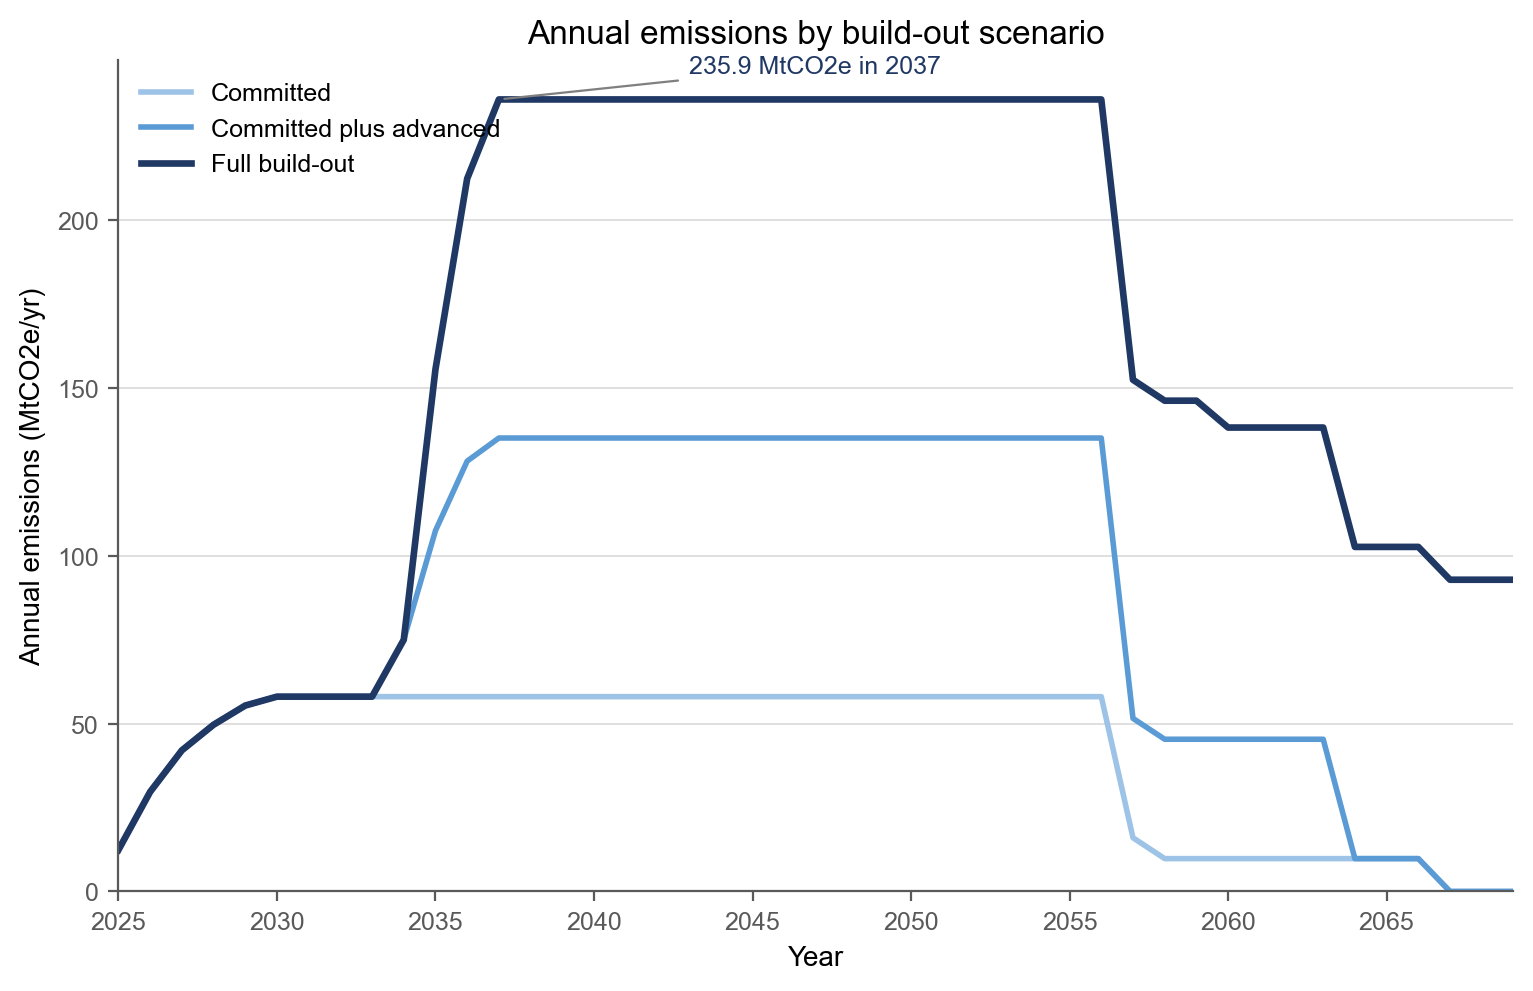
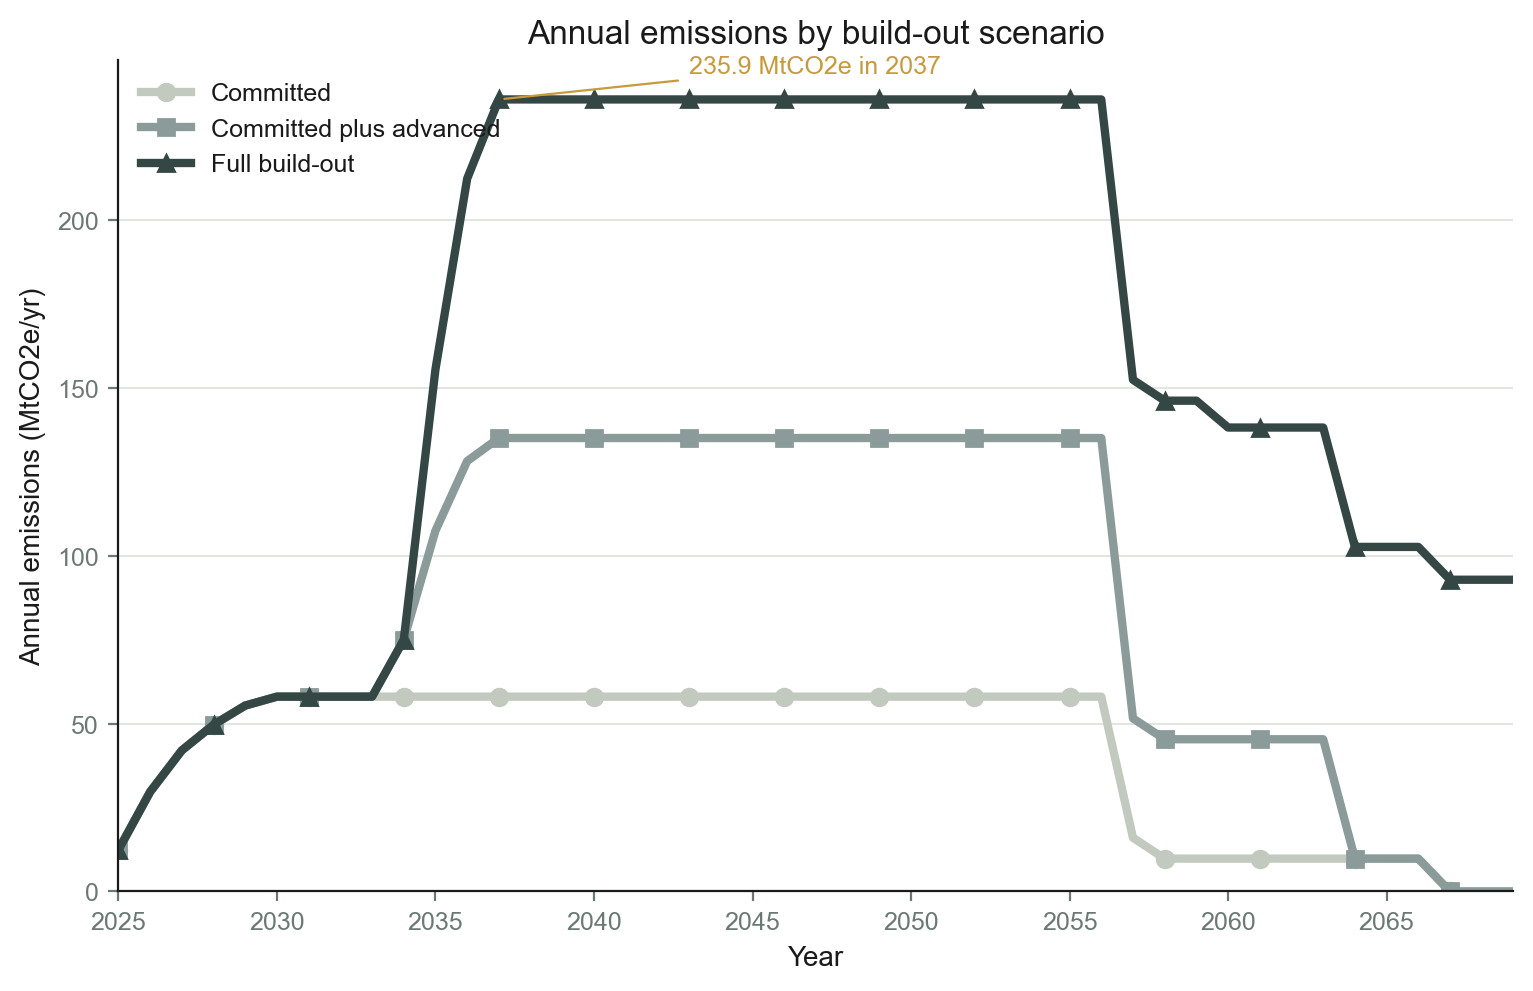
Recolour figures to the deck sage and forest palette.

diff --git a/src/figures_report.py b/src/figures_report.py
@@ -22,32 +22,42 @@ from src.trajectories import (
 
 DPI = 200
 
-# Presentation-template family (Office theme accents and shades).
+# Deck brand palette (sage / forest, gold for emphasis only).
 # Same colour always means the same thing across figures.
+INK = "#1A1A1A"
+MUTED = "#6B7975"
+GRID = "#DDE2DC"
+FOREST = "#344745"
+SAGE = "#8A9B9A"
+FOG = "#C2C9BF"
+MIST = "#DDE2DC"
+LEAF = "#A6B0A1"
+GOLD = "#C89A3C"
+
 C = {
-    "black": "#000000",
-    "navy": "#203864",
-    "blue": "#4472C4",
-    "sky": "#5B9BD5",
-    "pale": "#9DC3E6",
-    "orange": "#ED7D31",
-    "gold": "#FFC000",
-    "green": "#70AD47",
-    "darkgreen": "#548235",
-    "red": "#C00000",
-    "brown": "#833C0C",
-    "grey": "#7F7F7F",
-    "grid": "#D9D9D9",
-    "text": "#595959",
-    "vermillion": "#C00000",
-    "purple": "#7030A0",
-    "yellow": "#FFC000",
+    "black": INK,
+    "navy": FOREST,
+    "blue": FOREST,
+    "sky": SAGE,
+    "pale": FOG,
+    "orange": SAGE,
+    "gold": GOLD,
+    "green": MUTED,
+    "darkgreen": FOREST,
+    "red": MUTED,
+    "brown": SAGE,
+    "grey": MUTED,
+    "grid": GRID,
+    "text": MUTED,
+    "vermillion": SAGE,
+    "purple": LEAF,
+    "yellow": LEAF,
 }
 
 SCENARIO_COLOR = {
-    "committed": C["pale"],
-    "committed_plus_advanced": C["sky"],
-    "full": C["navy"],
+    "committed": FOG,
+    "committed_plus_advanced": SAGE,
+    "full": FOREST,
 }
 SCENARIO_LABEL = {
     "committed": "Committed",
@@ -63,12 +73,12 @@ STAGE_LABEL = {
     "combustion": "Combustion",
 }
 STAGE_COLOR = {
-    "upstream_production": C["green"],
-    "pipeline_transport": C["darkgreen"],
-    "liquefaction": C["orange"],
-    "shipping": C["gold"],
-    "regasification": C["grey"],
-    "combustion": C["red"],
+    "upstream_production": MUTED,
+    "pipeline_transport": FOG,
+    "liquefaction": SAGE,
+    "shipping": LEAF,
+    "regasification": MIST,
+    "combustion": FOREST,
 }
 TERRITORY_LABEL = {
     "CAN": "Canada",
@@ -76,9 +86,9 @@ TERRITORY_LABEL = {
     "FOR": "Importing countries",
 }
 TERRITORY_COLOR = {
-    "CAN": C["blue"],
-    "BUNK": C["grey"],
-    "FOR": C["brown"],
+    "CAN": FOREST,
+    "BUNK": GOLD,
+    "FOR": SAGE,
 }
 LOCKED_STAGE_SHARE_PCT = {
     "combustion": 78.0,
@@ -108,12 +118,15 @@ def _setup_style() -> None:
         "xtick.labelsize": 9,
         "ytick.labelsize": 9,
         "legend.fontsize": 9,
+        "text.color": INK,
+        "axes.labelcolor": INK,
+        "axes.titlecolor": INK,
         "axes.spines.top": False,
         "axes.spines.right": False,
-        "axes.edgecolor": C["text"],
-        "xtick.color": C["text"],
-        "ytick.color": C["text"],
-        "grid.color": C["grid"],
+        "axes.edgecolor": INK,
+        "xtick.color": MUTED,
+        "ytick.color": MUTED,
+        "grid.color": GRID,
         "grid.linewidth": 0.6,
         "figure.facecolor": "white",
         "axes.facecolor": "white",
@@ -122,8 +135,13 @@ def _setup_style() -> None:
 
 
 def _ygrid(ax) -> None:
-    ax.yaxis.grid(True, color=C["grid"], linewidth=0.6)
+    ax.yaxis.grid(True, color=GRID, linewidth=0.6)
     ax.set_axisbelow(True)
+
+
+def _label_on(fill: str) -> str:
+    """White on forest bars; ink on pale fills."""
+    return "#FFFFFF" if fill.upper() == FOREST.upper() else INK
 
 
 def tint_hex(hex_color: str, amount: float = 0.45) -> str:
@@ -208,7 +226,7 @@ def figure_1_stage_breakdown(
             f"{r.lifetime_mtco2e:,.0f} MtCO2e",
             va="center",
             fontsize=9,
-            color=C["black"],
+            color=INK,
         )
     ax.set_xlim(0, max(plot["share_pct"].max() * 1.28, 100))
     out = fig_dir / "fig01_stage_breakdown.png"
@@ -274,7 +292,7 @@ def figure_2_territorial_split(
                 f"{r.share_pct:.1f}%\n{r.lifetime_mtco2e:,.0f} MtCO2e",
                 ha="center",
                 va="center",
-                color="white",
+                color=_label_on(TERRITORY_COLOR[r.code]),
                 fontsize=9,
                 fontweight="bold",
             )
@@ -342,13 +360,17 @@ def figure_3_three_trajectories(
 
     _setup_style()
     fig, ax = plt.subplots(figsize=(9.0, 5.4))
+    markers = {"committed": "o", "committed_plus_advanced": "s", "full": "^"}
     for name in BUILD_OUTS:
         ax.plot(
             df["year"],
             df[name],
             color=SCENARIO_COLOR[name],
             linestyle=LINE_STYLES["solid"],
-            linewidth=2.4 if name == "full" else 2.0,
+            linewidth=3.0,
+            marker=markers[name],
+            markevery=3,
+            markersize=6,
             label=SCENARIO_LABEL[name],
         )
     peak_idx = int(df["full"].idxmax())
@@ -360,8 +382,8 @@ def figure_3_three_trajectories(
         xytext=(peak_year + 6, peak_mt + 8),
         ha="left",
         fontsize=9,
-        color=SCENARIO_COLOR["full"],
-        arrowprops=dict(arrowstyle="-", color=C["grey"], lw=0.8),
+        color=GOLD,
+        arrowprops=dict(arrowstyle="-", color=GOLD, lw=0.8),
     )
     ax.set_xlabel("Year")
     ax.set_ylabel("Annual emissions (MtCO2e/yr)")
@@ -405,7 +427,7 @@ def _pathway_figure(
     ax.plot(
         pathway["year"],
         pathway["canada_pathway_mtco2e_yr"],
-        color=C["black"],
+        color=INK,
         linestyle=LINE_STYLES["solid"],
         linewidth=2.2,
         label="Canada legislated pathway",
@@ -694,7 +716,7 @@ def figure_8_electrification_appendix(
     ax2.plot(
         traj["year"],
         traj["canada_pathway_mtco2e_yr"],
-        color=C["black"],
+        color=INK,
         linestyle=LINE_STYLES["solid"],
         linewidth=1.6,
         label="Canada legislated pathway",

diff --git a/src/loss_damage.py b/src/loss_damage.py
@@ -963,12 +963,12 @@ def fig09_build_out_damages(ld: dict, inputs: dict) -> pd.DataFrame:
 def write_ld_figure(ld: dict, inputs: dict, path: Path, csv_path: Path | None = None) -> pd.DataFrame:
     """Grouped bars: valued-when-caused vs NPV by build-out scenario."""
     from src.figures_report import (
-        C,
+        GOLD,
+        INK,
         SCENARIO_COLOR,
         _save,
         _setup_style,
         _ygrid,
-        tint_hex,
     )
 
     df = fig09_build_out_damages(ld, inputs)
@@ -995,18 +995,17 @@ def write_ld_figure(ld: dict, inputs: dict, path: Path, csv_path: Path | None = 
     hi = df["valued_when_caused_1_5pct_cad_bn"].to_numpy()
     lo = df["valued_when_caused_2_5pct_cad_bn"].to_numpy()
     colors = [SCENARIO_COLOR[name] for name in df["build_out"]]
-    tints = [tint_hex(c, 0.45) for c in colors]
     x_cal = [i - width / 2 for i in x]
     x_npv = [i + width / 2 for i in x]
     ax.bar(x_cal, calendar, width, color=colors, label="Valued when caused")
-    ax.bar(x_npv, npv, width, color=tints, label="NPV to 2025")
+    ax.bar(x_npv, npv, width, color=colors, alpha=0.45, label="NPV to 2025")
     yerr = [calendar - lo, hi - calendar]
     ax.errorbar(
         x_cal,
         calendar,
         yerr=yerr,
         fmt="none",
-        ecolor=C["black"],
+        ecolor=INK,
         elinewidth=1.0,
         capsize=4,
         capthick=1.0,
@@ -1018,8 +1017,24 @@ def write_ld_figure(ld: dict, inputs: dict, path: Path, csv_path: Path | None = 
     ax.set_title("Climate damages by build-out scenario at official carbon values")
     _ygrid(ax)
     for i, (cal, npv_v, hi_v) in enumerate(zip(calendar, npv, hi)):
-        ax.text(x_cal[i], hi_v + ymax * 0.012, f"{cal:,.0f}", ha="center", va="bottom", fontsize=8)
-        ax.text(x_npv[i], npv_v + ymax * 0.012, f"{npv_v:,.0f}", ha="center", va="bottom", fontsize=8)
+        ax.text(
+            x_cal[i],
+            hi_v + ymax * 0.012,
+            f"{cal:,.0f}",
+            ha="center",
+            va="bottom",
+            fontsize=8,
+            color=INK,
+        )
+        ax.text(
+            x_npv[i],
+            npv_v + ymax * 0.012,
+            f"{npv_v:,.0f}",
+            ha="center",
+            va="bottom",
+            fontsize=8,
+            color=INK,
+        )
     full_i = list(df["build_out"]).index("full")
     ax.annotate(
         f"Burke et al.: C${burke_lo_tn:.1f}–{burke_hi_tn:.1f} tn through 2100",
@@ -1027,8 +1042,8 @@ def write_ld_figure(ld: dict, inputs: dict, path: Path, csv_path: Path | None = 
         xytext=(full_i, ymax * 1.12),
         ha="center",
         fontsize=8,
-        color=C["text"],
-        arrowprops=dict(arrowstyle="-", color=C["grey"], lw=0.8),
+        color=GOLD,
+        arrowprops=dict(arrowstyle="-", color=GOLD, lw=0.8),
     )
     ax.legend(frameon=False, loc="upper left")
     _save(fig, path)
